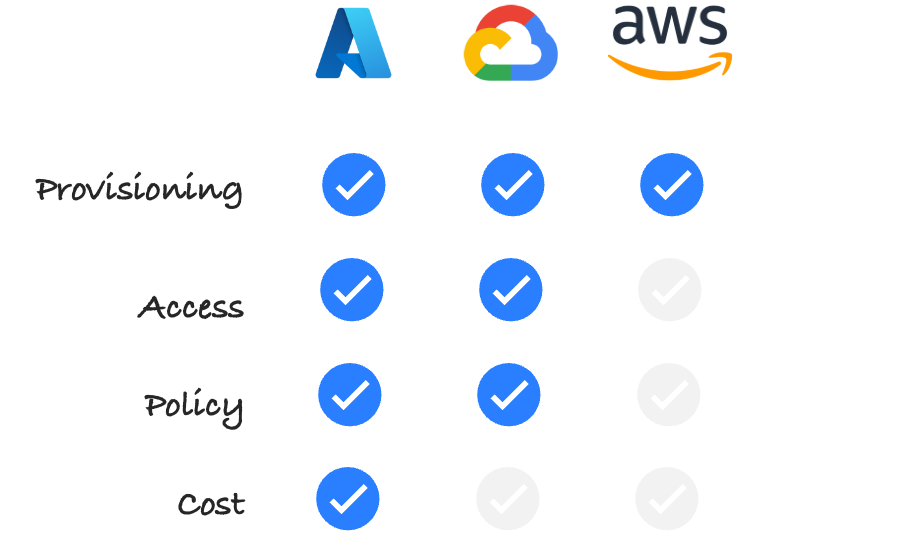
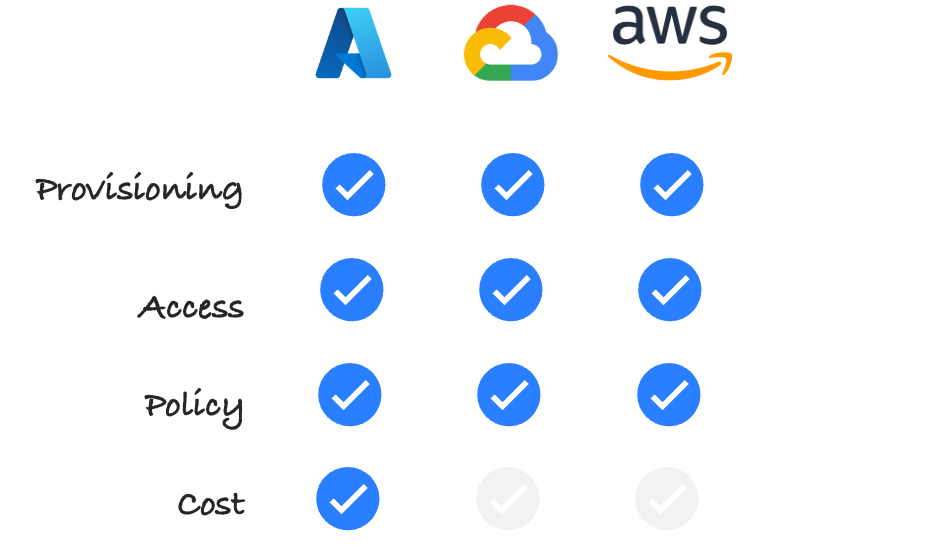
updated graphics including mvp status

diff --git a/src/pages/index.js b/src/pages/index.js
@@ -121,7 +121,7 @@ const mainPage = () => {
       </div>
 
       <div className={styles.container}>
-        <h2>Multi-Cloud, One API!</h2>
+        <h2>Cloud Hypervisor!</h2>
         <ThemedImage
           alt="Backplane themed image"
           sources={{
@@ -306,7 +306,7 @@ const mainPage = () => {
       </div>
 
       <div className={styles.container}>
-        <h2>Get involved, Backplane Community </h2>
+        <h2>Community </h2>
         <p>
           We are a team of cloud engineers passionate about cloud adoption,
           enablement and governance. Feel free to get involved; whether

diff --git a/docs/quick-start.md b/docs/quick-start.md
@@ -180,7 +180,7 @@ To create credentials you'll need to create an App registration in Entra ID.
 
 1. Go to Microsoft Entra ID, and under Manage in the left side menu, select App registrations.
 
-2. Click on New Registration and gives it a name and click Register.
+2. Click on New Registration and provide a name (e.g. `backplane-api`) a name and click Register.
 
 3. Take note of the Tenant ID and Client ID.
 
@@ -211,7 +211,7 @@ The Subscription ID is required in the MVP since App environments are provisione
 1.  Login to console.cloud.google.com
 2.  Go to IAM and admin > Service accounts
 3.  Select a Project and click on Create Service Account
-4.  Enter a service account name e.g. `backplane-demo` and a description e.g. `For Backplane API environment provisioning`
+4.  Enter a service account name e.g. `backplane-api` and a description e.g. `For Backplane API environment provisioning`
 5.  Click Create and Continue
 6.  Click on Done.
 7.  Click on IAM and switch to the Organisation level.
@@ -240,7 +240,7 @@ bp cloud gcp add --id "<OrgID>" --tenantid "<Enter Google Org ID>" --gcpsecret "
 2. Go to IAM
 3. Click on Users
 4. Click on Create User
-5. Enter User Details e.g. backplane-aws, click next
+5. Enter User Details e.g. `backplane-api`, click next
 6. Permission Options, select attach policies directly
 7. Click on Create Policy and in Policy Editor select JSON. Paste in the below JSON
 
@@ -300,7 +300,7 @@ bp product add --displayname 'Product X' --platformid '<Platform ID>'
 ### Create App
 
 ```js
-bp app add --displayname "My first App" --cloud "azure | gcp | aws"
+bp app create --displayname "My first App" --cloud "azure | gcp | aws"
 ```
 
 :::info
